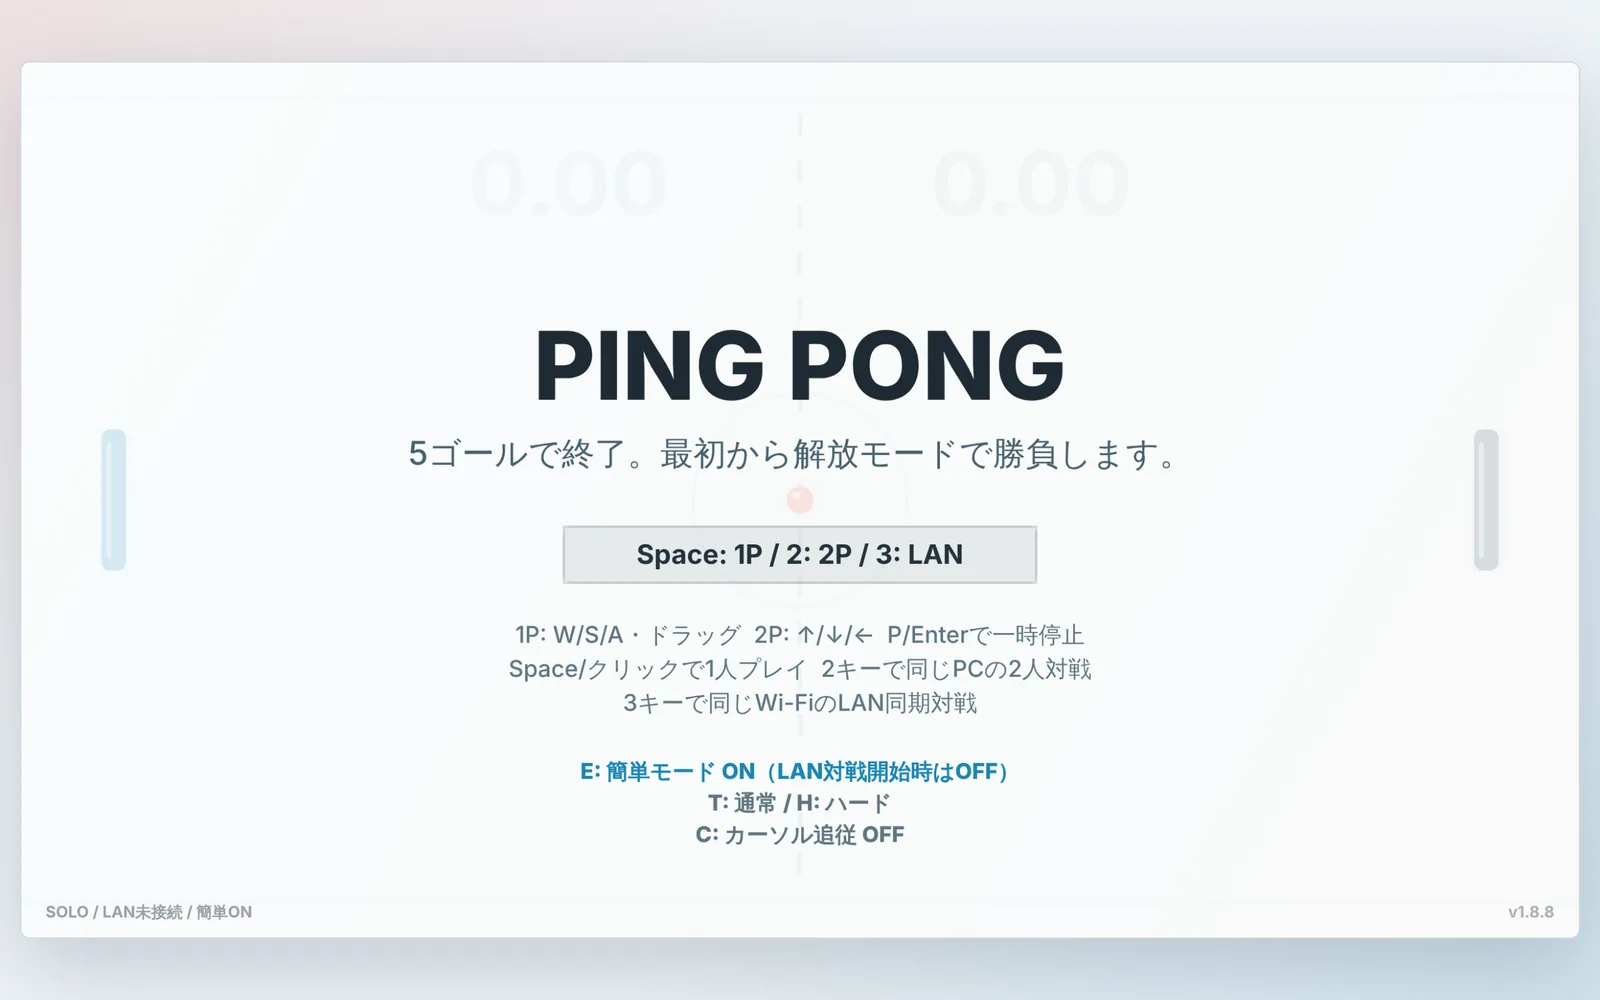
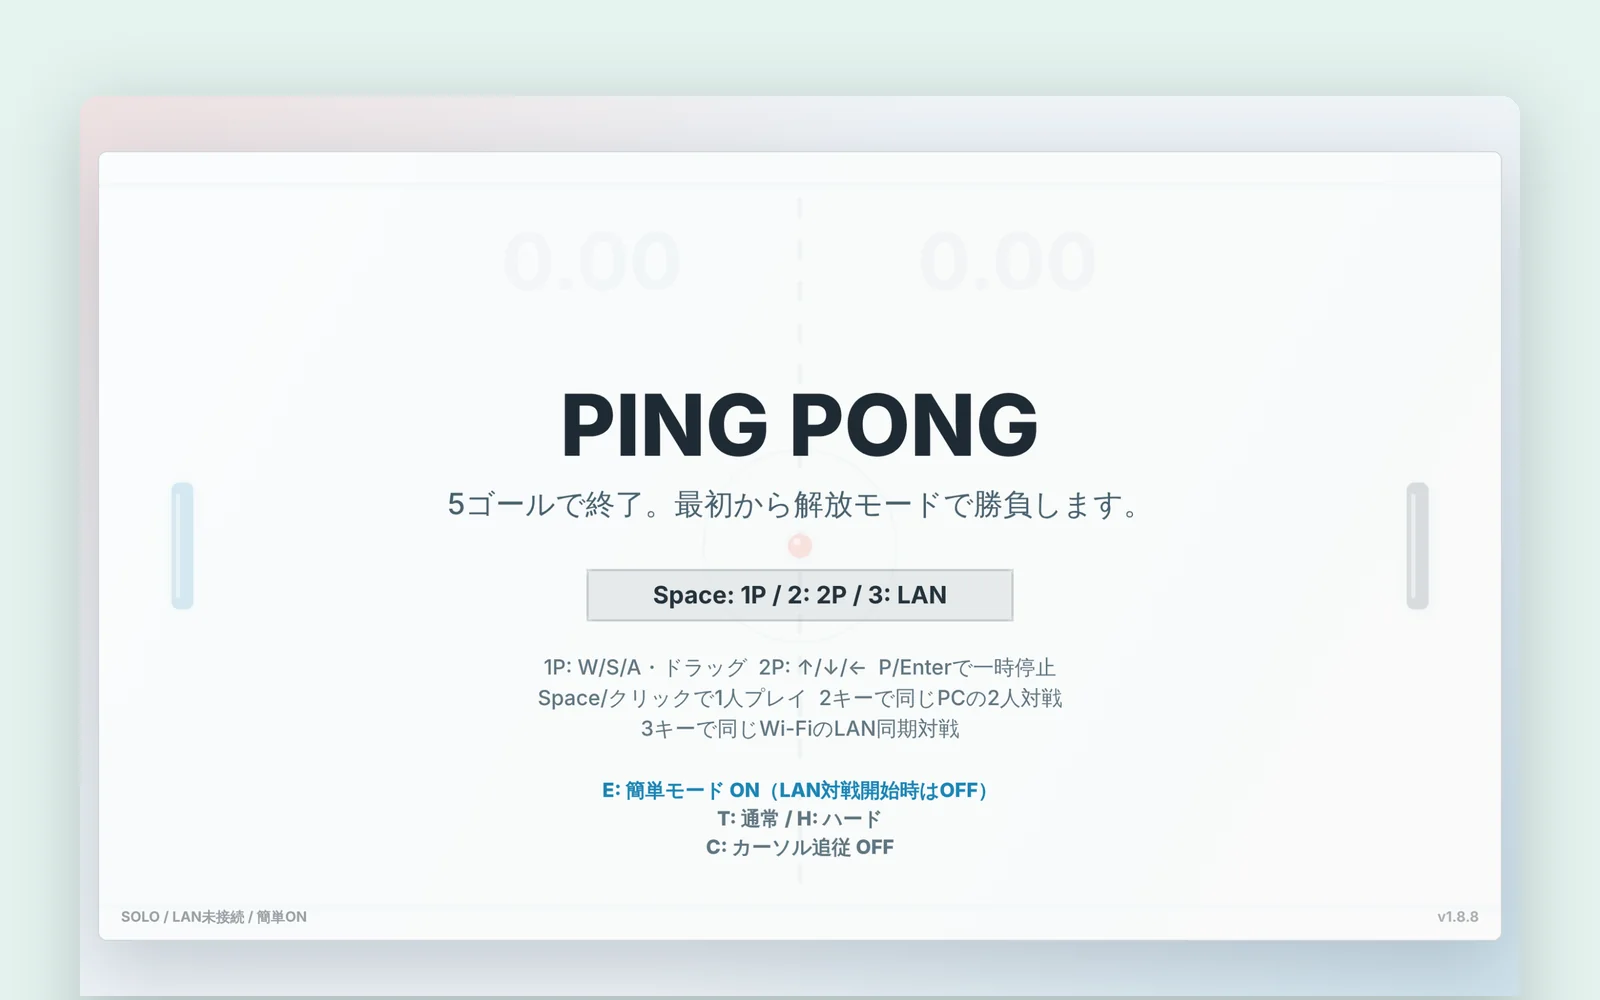
Unify thumbnails and balance the grid
- Re-render every thumbnail in one style: a soft tinted background with
  the screen rising from the bottom (5Grip re-shot so its hero fills it)
- Feature the first work as a two-column-wide card so the remaining six
  sit in even rows
- Show the book and the mokumoku meetup as cards in the same grid; the
  connpass image is centered in a 16:10 frame whatever its aspect ratio

Claude-Session: https://claude.ai/code/session_01Gu5bMHeh83pnsdTjSqEgQP

Changed region(s): [[0.0, 0.062, 1.0, 0.992], [0.25, 0.31, 0.7188, 0.868], [0.0312, 0.992, 0.9375, 1.0]]

diff --git a/css/style.css b/css/style.css
@@ -99,7 +99,6 @@ img { display: block; max-width: 100%; height: auto; }
 
 /* ---------- sections ---------- */
 .section { padding-bottom: 96px; }
-.section:has(> .row), .section:has(> .book) { padding-bottom: 56px; }
 .label {
   margin-bottom: 24px;
   font-size: 13px;
@@ -118,6 +117,21 @@ img { display: block; max-width: 100%; height: auto; }
 @media (min-width: 720px) { .works { grid-template-columns: repeat(2, 1fr); gap: 56px 32px; } }
 
 .card { display: block; }
+
+/* 先頭の1件は2列ぶんの横長カードにして、残りを2列で揃える */
+@media (min-width: 720px) {
+  .is-featured { grid-column: 1 / -1; }
+  .is-featured .card {
+    display: grid;
+    grid-template-columns: 3fr 2fr;
+    gap: 48px;
+    align-items: center;
+  }
+  .is-featured .card__body { padding: 0; }
+  .is-featured .card__title { font-size: clamp(24px, 3vw, 32px); }
+  .is-featured .card__desc { margin-top: 12px; font-size: 16px; }
+  .is-featured .card__meta { justify-content: flex-start; gap: 20px; margin-top: 24px; }
+}
 .card__img {
   width: 100%;
   aspect-ratio: 16 / 10;
@@ -127,6 +141,30 @@ img { display: block; max-width: 100%; height: auto; }
   box-shadow: 0 0 0 1px var(--line);
   transition: transform .35s cubic-bezier(.2, .7, .2, 1), box-shadow .35s;
 }
+/* 縦横比が分からない外部画像は、色付きの枠の中央に収める */
+.card__frame {
+  position: relative;
+  display: block;
+  width: 100%;
+  aspect-ratio: 16 / 10;
+  border-radius: 16px;
+  background: #e9eef6;
+  box-shadow: 0 0 0 1px var(--line);
+  transition: transform .35s cubic-bezier(.2, .7, .2, 1), box-shadow .35s;
+}
+.card__frame img {
+  position: absolute;
+  top: 50%;
+  left: 50%;
+  max-width: 82%;
+  max-height: 80%;
+  transform: translate(-50%, -50%);
+  border-radius: 10px;
+  box-shadow: 0 14px 30px -14px rgba(25, 30, 50, .45);
+  color: var(--ink-soft);
+  font-size: 13px;
+}
+.card:hover .card__frame,
 .card:hover .card__img {
   transform: translateY(-4px);
   box-shadow: 0 0 0 1px var(--line), 0 18px 40px -18px rgba(0, 0, 0, .35);
@@ -139,6 +177,7 @@ img { display: block; max-width: 100%; height: auto; }
 }
 .card__desc {
   margin-top: 4px;
+  text-wrap: pretty;
   color: var(--ink-soft);
   font-size: 15px;
 }
@@ -150,61 +189,17 @@ img { display: block; max-width: 100%; height: auto; }
   font-size: 13px;
   color: var(--ink-soft);
 }
-.card__go, .row__go {
+.card__go {
   font-weight: 600;
   color: var(--accent);
 }
-.card__go::after, .row__go::after {
+.card__go::after {
   content: "↗";
   display: inline-block;
   margin-left: 4px;
   transition: transform .2s;
 }
-.card:hover .card__go::after, .row:hover .row__go::after { transform: translate(2px, -2px); }
-
-/* ---------- book ---------- */
-.book {
-  display: flex;
-  align-items: center;
-  gap: 28px;
-  padding: 28px;
-  border-radius: 16px;
-  background: var(--surface);
-}
-.book__cover {
-  flex: none;
-  width: 120px;
-  aspect-ratio: 480 / 686;
-  object-fit: cover;
-  border-radius: 4px;
-  background: var(--line);
-  color: transparent;
-  font-size: 0;
-  box-shadow: 0 10px 24px -10px rgba(0, 0, 0, .4);
-  transition: transform .35s cubic-bezier(.2, .7, .2, 1);
-}
-@media (max-width: 480px) {
-  .book { gap: 20px; padding: 20px; }
-  .book__cover { width: 88px; }
-}
-.book:hover .book__cover { transform: translateY(-4px) rotate(-1.5deg); }
-.book__body { display: grid; gap: 8px; flex: 1; }
-.book__title { font-size: clamp(20px, 3vw, 26px); font-weight: 700; letter-spacing: -.01em; }
-.book__meta { display: flex; gap: 16px; font-size: 13px; color: var(--ink-soft); }
-.book:hover .card__go::after { transform: translate(2px, -2px); }
-
-/* ---------- community ---------- */
-.row {
-  display: flex;
-  justify-content: space-between;
-  align-items: center;
-  gap: 16px;
-  padding: 24px 0;
-  border-top: 1px solid var(--line);
-  border-bottom: 1px solid var(--line);
-}
-.row__title { font-size: 18px; font-weight: 700; }
-.row:hover .row__title { color: var(--accent); }
+.card:hover .card__go::after { transform: translate(2px, -2px); }
 
 /* ---------- footer ---------- */
 .footer {

diff --git a/index.html b/index.html
@@ -39,12 +39,12 @@
     <section class="container section" aria-labelledby="works-title">
       <h2 class="label" id="works-title">Works</h2>
       <ul class="works">
-        <li>
+        <li class="is-featured">
           <a class="card" href="https://tomochi3.github.io/tt_record/" target="_blank" rel="noopener">
-            <img class="card__img" src="img/tt_record.webp" width="1600" height="1000" alt="卓球戦績メモの戦績画面。勝敗、勝率、対戦相手別の成績が並ぶ" loading="lazy">
+            <img class="card__img" src="img/tt_record.webp" width="1600" height="1000" alt="卓球戦績メモの戦績画面。勝敗、勝率、対戦相手別の成績が並ぶ">
             <div class="card__body">
               <h3 class="card__title">卓球戦績メモ</h3>
-              <p class="card__desc">試合結果を数タップで記録し、相手ごとの成績を振り返れる卓球アプリ</p>
+              <p class="card__desc">試合結果を数タップで記録し、相手ごとの成績を振り返れる卓球アプリ。1点ごとのスコアボードや、友だちとの結果共有にも対応しています。</p>
               <p class="card__meta">Webアプリ <span class="card__go">サイトを開く</span></p>
             </div>
           </a>
@@ -112,23 +112,32 @@
       </ul>
     </section>
 
-    <section class="container section" aria-labelledby="book-title">
-      <h2 class="label" id="book-title">Book</h2>
-      <a class="book" href="https://amzn.asia/d/0fdwCbJb" target="_blank" rel="noopener">
-        <img class="book__cover" src="img/book.webp" width="480" height="686" alt="『ホームレス大学院生』の表紙。大きなリュックを背負った人物を段ボールの枠が囲んでいる" loading="lazy">
-        <span class="book__body">
-          <span class="book__title"><span class="phrase">ホームレス</span><span class="phrase">大学院生</span></span>
-          <span class="book__meta">著書 <span class="card__go">Amazon</span></span>
-        </span>
-      </a>
-    </section>
-
-    <section class="container section" aria-labelledby="community-title">
-      <h2 class="label" id="community-title">Community</h2>
-      <a class="row" href="https://kintech.connpass.com" target="_blank" rel="noopener">
-        <span class="row__title">もくもく会を主催しています</span>
-        <span class="row__go">connpass</span>
-      </a>
+    <section class="container section" aria-labelledby="more-title">
+      <h2 class="label" id="more-title">Book &amp; Community</h2>
+      <ul class="works">
+        <li>
+          <a class="card" href="https://amzn.asia/d/0fdwCbJb" target="_blank" rel="noopener">
+            <img class="card__img" src="img/book.webp" width="1600" height="1000" alt="『ホームレス大学院生』の表紙。大きなリュックを背負った人物を段ボールの枠が囲んでいる" loading="lazy">
+            <div class="card__body">
+              <h3 class="card__title">ホームレス大学院生</h3>
+              <p class="card__desc">Amazon で公開中の著書</p>
+              <p class="card__meta">著書 <span class="card__go">Amazon</span></p>
+            </div>
+          </a>
+        </li>
+        <li>
+          <a class="card" href="https://kintech.connpass.com" target="_blank" rel="noopener">
+            <span class="card__frame">
+              <img src="https://media.connpass.com/thumbs/76/3b/763bfcb2eb2d1de81fb2af8033d4ce3e.png" alt="もくもく会のイメージ画像" loading="lazy">
+            </span>
+            <div class="card__body">
+              <h3 class="card__title">もくもく会</h3>
+              <p class="card__desc">集まって各自の開発や勉強を進める会を主催しています</p>
+              <p class="card__meta">コミュニティ <span class="card__go">connpass</span></p>
+            </div>
+          </a>
+        </li>
+      </ul>
     </section>
   </main>
 
